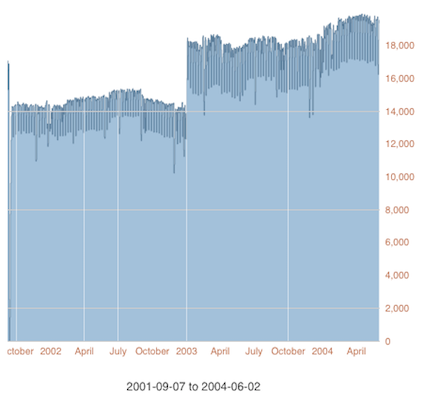
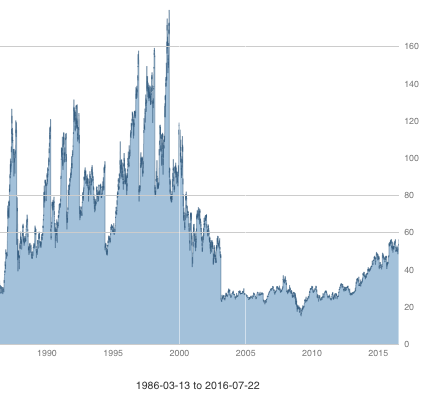
y zoom to current limit

diff --git a/AreaZoomChart/AreaZoomChart.ts b/AreaZoomChart/AreaZoomChart.ts
@@ -35,8 +35,8 @@ module powerbi.visuals {
                 }
             }],
             objects: {
-                initialzoom: {
-                    displayName: 'Initial Zoom',
+                zoom: {
+                    displayName: 'Zoom',
                     properties: {
                         start: {
                             description: 'Zoom start',
@@ -47,6 +47,11 @@ module powerbi.visuals {
                             description: 'Zoom end',
                             type: { numeric: true },
                             displayName: 'Zoom end'
+                        },
+                        maxZoomLevel: {
+                            description: 'Max Zoom Level',
+                            type: { numeric: true },
+                            displayName: 'Max Zoom Level'
                         }
                     }
                 },
@@ -117,7 +122,8 @@ module powerbi.visuals {
         private static FOOTER_TEXT_COLOR = '#333';
         private static FOOTER_FONT_SIZE = '12';
         private static MARGIN = { top: 0, right: 60, bottom: 60, left: 0 };
-  
+        private static MAX_ZOOM_LEVEL = 1024;
+
         private selectionManager: SelectionManager;
         private dataView: DataView;
 
@@ -145,6 +151,7 @@ module powerbi.visuals {
                 .attr('class', AreaZoomChart);
         }
 
+        private data;
         public update(options: VisualUpdateOptions) {
             if (!options.dataViews || !options.dataViews[0]) return;
             
@@ -164,7 +171,7 @@ module powerbi.visuals {
                 .attr('transform', 'translate(' + margin.left + ',' + margin.top + ')');
 
             this.dataView = options.dataViews[0];
-            var data = AreaZoomChart.converter(this.dataView);
+            var data = this.data = AreaZoomChart.converter(this.dataView);
             this.render(data);
         }
 
@@ -189,8 +196,8 @@ module powerbi.visuals {
         private createScales(data){
             this.xMin = d3.min(data, d=> d[0]);
             this.xMax = d3.max(data, d=> d[0]);
-            var zoomStart = this.GetProperty('initialzoom', 'start', this.xMin);
-            var zoomEnd = this.GetProperty('initialzoom', 'start', this.xMax);
+            var zoomStart = this.GetProperty('zoom', 'start', this.xMin);
+            var zoomEnd = this.GetProperty('zoom', 'start', this.xMax);
             this.x = d3.time.scale().range([0, this.width]);
             this.x.domain([zoomStart, zoomEnd]);
             this.y = d3.scale.linear().range([this.height, 0]);
@@ -253,10 +260,13 @@ module powerbi.visuals {
                 .attr('transform', 'translate(0,' + this.height + ')');
         }
 
+        private zoom;
         private enableZoom(){
-            var zoom = d3.behavior.zoom()
+            var maxZoomLevel = this.GetProperty('zoom', 'maxZoomLevel', AreaZoomChart.MAX_ZOOM_LEVEL);
+            var zoom = this.zoom = d3.behavior.zoom()
                         .x(this.x)
-                        .scaleExtent([0.5, 10])
+                        .y(this.y)
+                        .scaleExtent([0.5, maxZoomLevel])
                         .on('zoom', ()=> this.draw());
                         
             this.mainGroup.append('rect')
@@ -275,6 +285,11 @@ module powerbi.visuals {
         }
 
         private draw(){
+            var x = this.x.domain();
+            var filteredData = this.data.filter(d=>d[0]>=x[0] && d[0]<=x[1]);
+            var yMax = d3.max(filteredData, d=>d[1]);
+            this.y.domain([0, yMax]);
+            
             var mainGroup = this.mainGroup;
             mainGroup.select('g.x.axis').call(this.xAxis);
             mainGroup.select('g.y.axis').call(this.yAxis);
@@ -337,14 +352,15 @@ module powerbi.visuals {
             var objectName = options.objectName;
 
             switch (objectName) {
-                case 'initialzoom':
+                case 'zoom':
                     var properties: VisualObjectInstance = {
                         objectName: objectName,
-                        displayName: 'Initial Zoom',
+                        displayName: 'Zoom',
                         selector: null,
                         properties: {
                             start: this.GetProperty(objectName, 'start', this.xMin),
-                            end: this.GetProperty(objectName, 'end', this.xMax)
+                            end: this.GetProperty(objectName, 'end', this.xMax),
+                            maxZoomLevel: this.GetProperty(objectName, 'maxZoomLevel', AreaZoomChart.MAX_ZOOM_LEVEL)
                         }
                     };
                     enumeration.pushInstance(properties);
